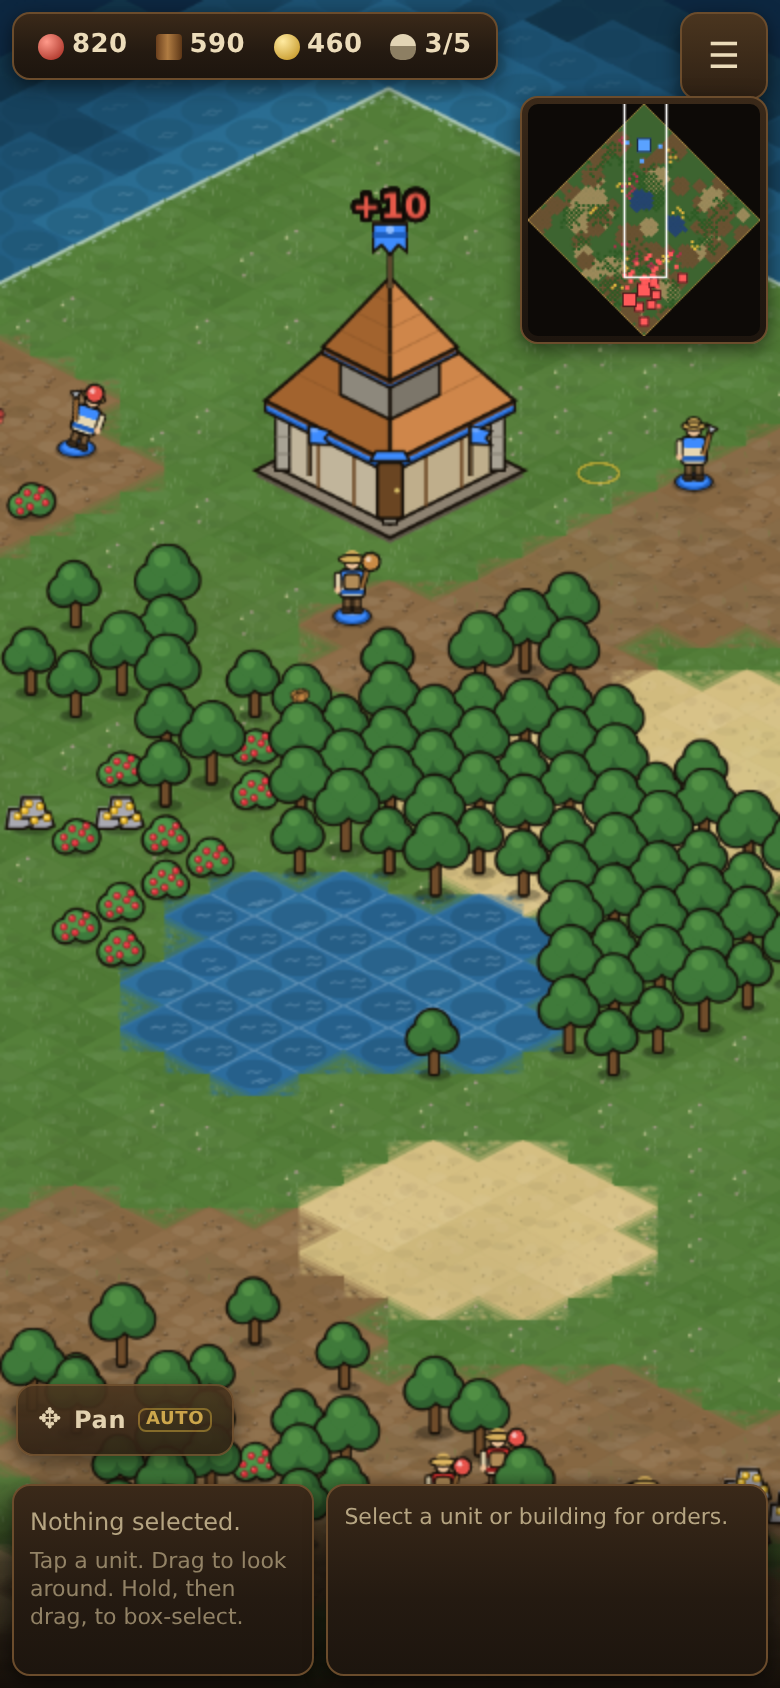
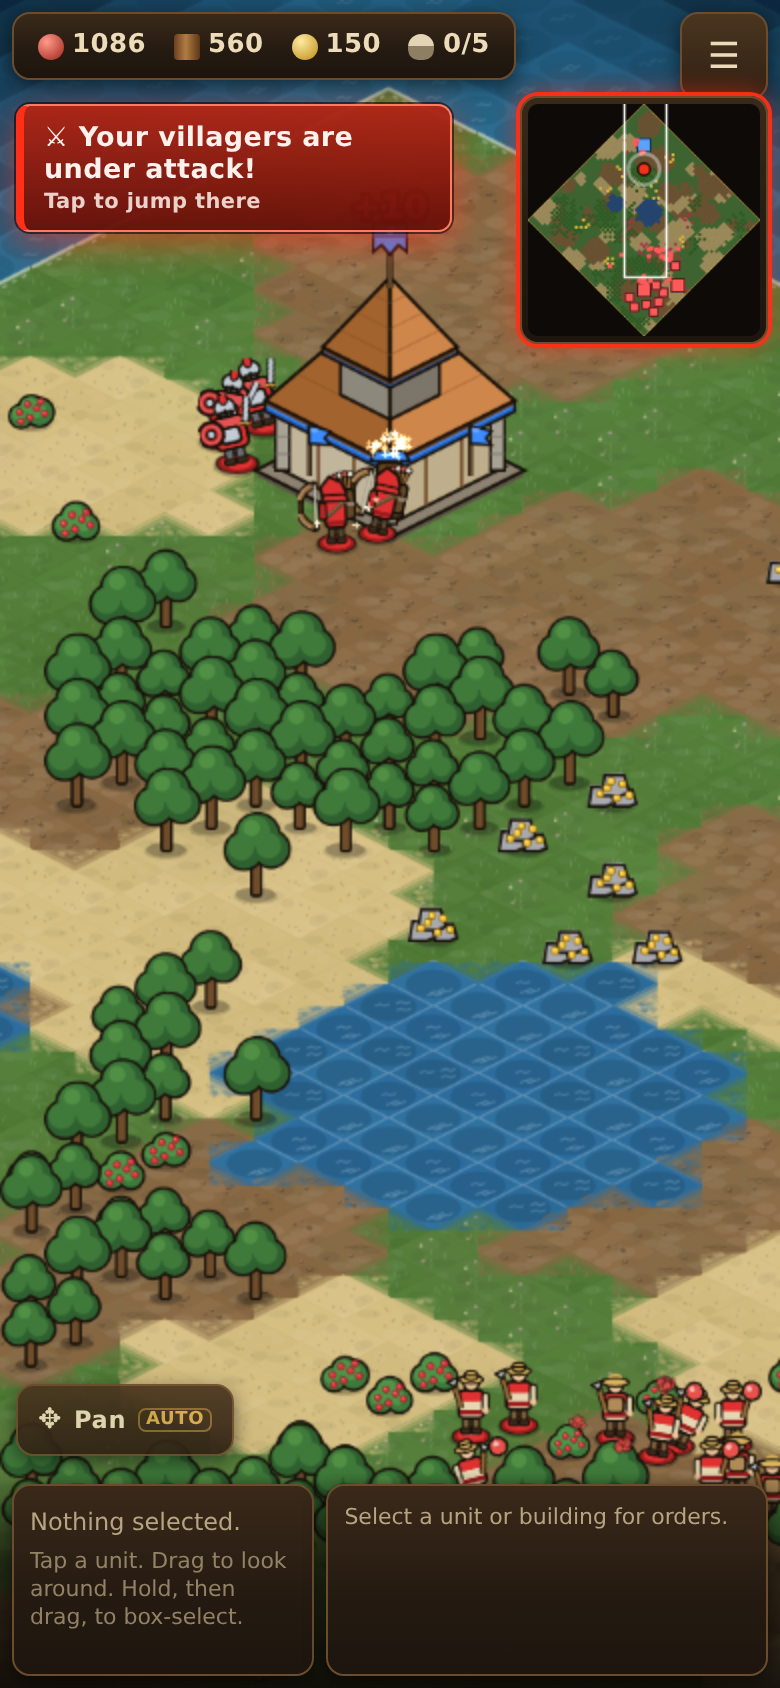
Add farms and rally-to-resource, and fix two build deadlocks
Rally points now task villagers instead of parking them. A rally landing on
or beside a resource, your own farm, or a foundation makes each trained
villager issue itself a gather or build order. Over six minutes with the
player only keeping the Town Center queue full, this is 1410 food banked
with no idle villagers, against 620 food and 6.3 idle before.

Farms close the food cliff the review measured at minute four, when every
berry within ten tiles of your Town Center is gone and per-villager income
halves at exactly the minute the first wave lands. Any completed building
carrying a "provides" entry becomes a private node; food is still hauled to
a drop-off, so the visible gather loop is preserved and nothing trickles. A
spent farm is removed like an emptied bush rather than leaving a husk
blocking its own base, since there is no demolish order.

The enemy AI now farms once local berries thin out, and its villager cap
moves from 16 to 24 — the old number came from budgeting food at 6 nodes,
where the map actually generates 37 to 45.

Two deadlocks surfaced on the way: two builders sent to one foundation
shoved each other just outside build reach so it never progressed, which
cost the AI its barracks and its whole army in one run; and an unreachable
foundation counted forever, permanently suppressing that building type.

Claude-Session: https://claude.ai/code/session_012wnKT6BiMkf1Q71vbmP9PB

diff --git a/src/gfx/render.js b/src/gfx/render.js
@@ -651,8 +651,12 @@ function farmStage(b) {
   if (cur === undefined) cur = num(b.provides && b.provides.amount);
   if (cur === undefined || max === undefined || max <= 0) return 0;
   const f = cur / max;
-  if (f <= 0.03) return 2;
-  if (f <= 0.5) return 1;
+  // economy.js deletes a farm the moment it hits zero, so the "spent" art has
+  // to arrive well before that or the player would never see it. Worn-out
+  // reads from the last third, which is when it matters: that is when you go
+  // and queue the replacement.
+  if (f <= 0.3) return 2;
+  if (f <= 0.62) return 1;
   return 0;
 }
 

diff --git a/src/gfx/fx.js b/src/gfx/fx.js
@@ -141,7 +141,10 @@ export function createFx(scene, world, opts) {
     // A farm is a flat field: hanging its labels at house height would leave
     // them floating in empty sky above the crop.
     if (e.kind === 'building' && e.type === 'farm') return -44;
-    if (e.kind === 'building') return -((e.fw || 2) >= 3 ? 150 : 70);
+    if (e.kind === 'building') {
+      if (e.type === 'towncenter') return -150; // clears the mast
+      return -((e.fw || 2) >= 3 ? 115 : 70);
+    }
     if (e.kind === 'resource') return -34;
     return -48;
   }
